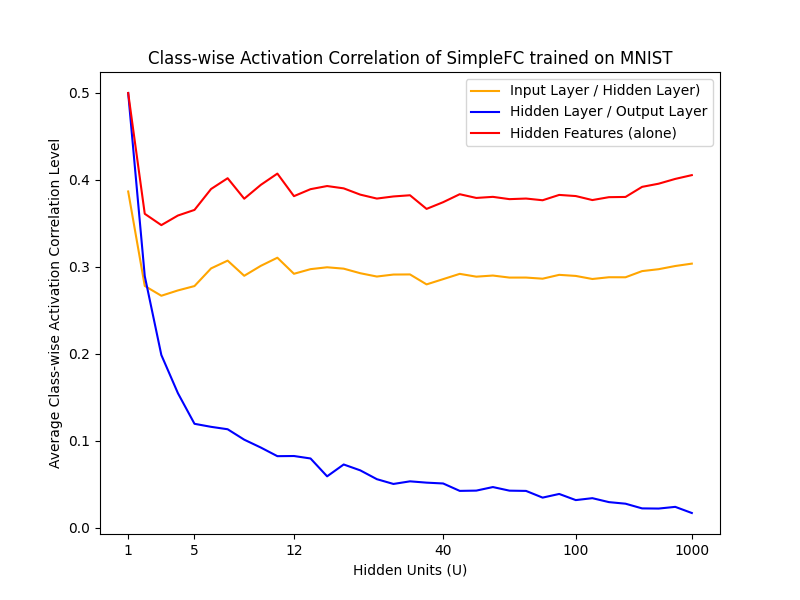
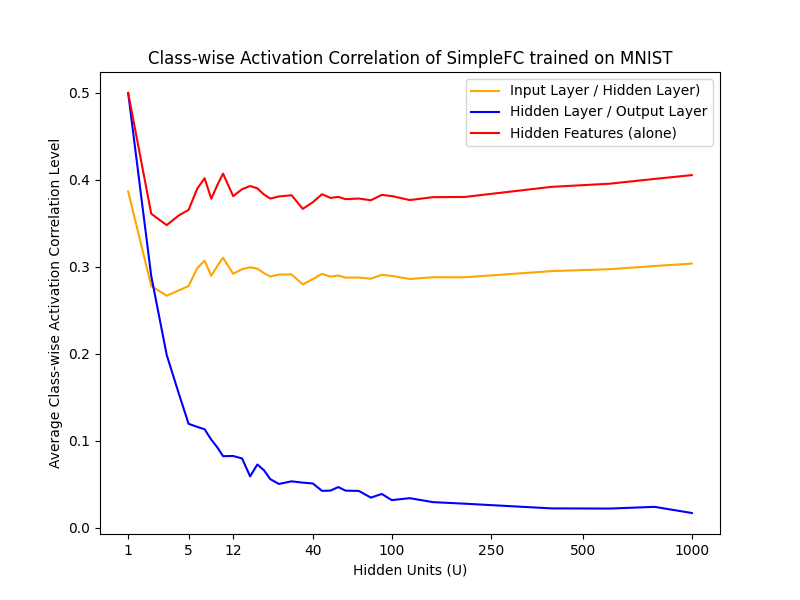
Activation Correlations

diff --git a/test_sparsity.py b/test_sparsity.py
@@ -182,7 +182,7 @@ def get_pearson_correlation(matrix1, matrix2):
     return correlation_coefficient
 
 
-def compute_correlation(matrices_list, similarity_measure='cosine'):
+def compute_correlation(matrices_list, similarity_measure):
     # Calculate cosine similarity between each pair of matrices
     similarities = np.zeros((10, 10))
     for i in range(10):
@@ -219,7 +219,7 @@ def get_activation_correlation(args, test_dataloader, directory, hidden_units):
 
         for c in range(10):
             # Extract the hidden_features
-            act_list = models.get_full_activation(model, test_dataloader)
+            act_list = models.get_full_activation(model, test_dataloader_list[c])
 
             # Activation Matrices between input_layer and hidden_layer: For each test item (10000 * d * n)
             cam1 = np.mean(np.multiply(act_list[0][:, :, np.newaxis], act_list[1][:, np.newaxis, :]), axis=0)
@@ -232,9 +232,9 @@ def get_activation_correlation(args, test_dataloader, directory, hidden_units):
             hf_list.append(hf)
 
         # Compute similarities between class activation matrices
-        corr_1, mean_1 = compute_correlation(cam1_list)
-        corr_2, mean_2 = compute_correlation(cam2_list)
-        corr_hf, mean_hf = compute_correlation(hf_list)
+        corr_1, mean_1 = compute_correlation(cam1_list, similarity_measure='cosine')
+        corr_2, mean_2 = compute_correlation(cam2_list, similarity_measure='cosine')
+        corr_hf, mean_hf = compute_correlation(hf_list, similarity_measure='cosine')
 
         # Plot heatmap on certain hidden_unit threshold
         if hidden_unit in [10, 20, 40, 100, 1000]:

diff --git a/models.py b/models.py
@@ -249,7 +249,7 @@ class NormSigmoid(nn.Module):
 
 
 class SimpleFC(nn.Module):
-    def __init__(self, archi, device):
+    def __init__(self, archi):
         self.n_hidden_units = archi[1]
         self.n_layers = len(archi)
 
@@ -272,7 +272,7 @@ class SimpleFC(nn.Module):
         return x
 
     def forward_full(self, act_0):
-        act_1 = self.features(act_0)
+        act_1 = self.features(act_0.to(torch.float32))
         act_0 = act_0.view(act_0.size(0), -1)
         act_1 = act_1.view(act_1.size(0), -1)
         act_2 = self.classifier(act_1)

diff --git a/test_rademacher.py b/test_rademacher.py
@@ -16,10 +16,7 @@ def get_class_dataloader_mnist(dataset, batch_size):
     dataloader_list = []
 
     for n in range(10):
-        data = dataset.data[index[n]]
-        label = dataset.targets[index[n]]
-
-        dataset_list = [(dataset.data[i].numpy(), dataset.targets[i]) for i in index[n]]
+        dataset_list = [(dataset.data[i], dataset.targets[i]) for i in index[n]]
 
         dataset_n = data_src.ListDataset(dataset_list)
         dataloader = data_src.get_dataloader_from_dataset(dataset_n, batch_size, 0)

diff --git a/main.py b/main.py
@@ -101,7 +101,7 @@ if __name__ == '__main__':
         dictionary_path = os.path.join(directory, 'dictionary')
 
         # Initialization
-        if args.task == 'initialize':
+        if args.task == 'init':
             # Initialize the directories
             if not os.path.isdir(f"data"):
                 os.mkdir(f"data")
